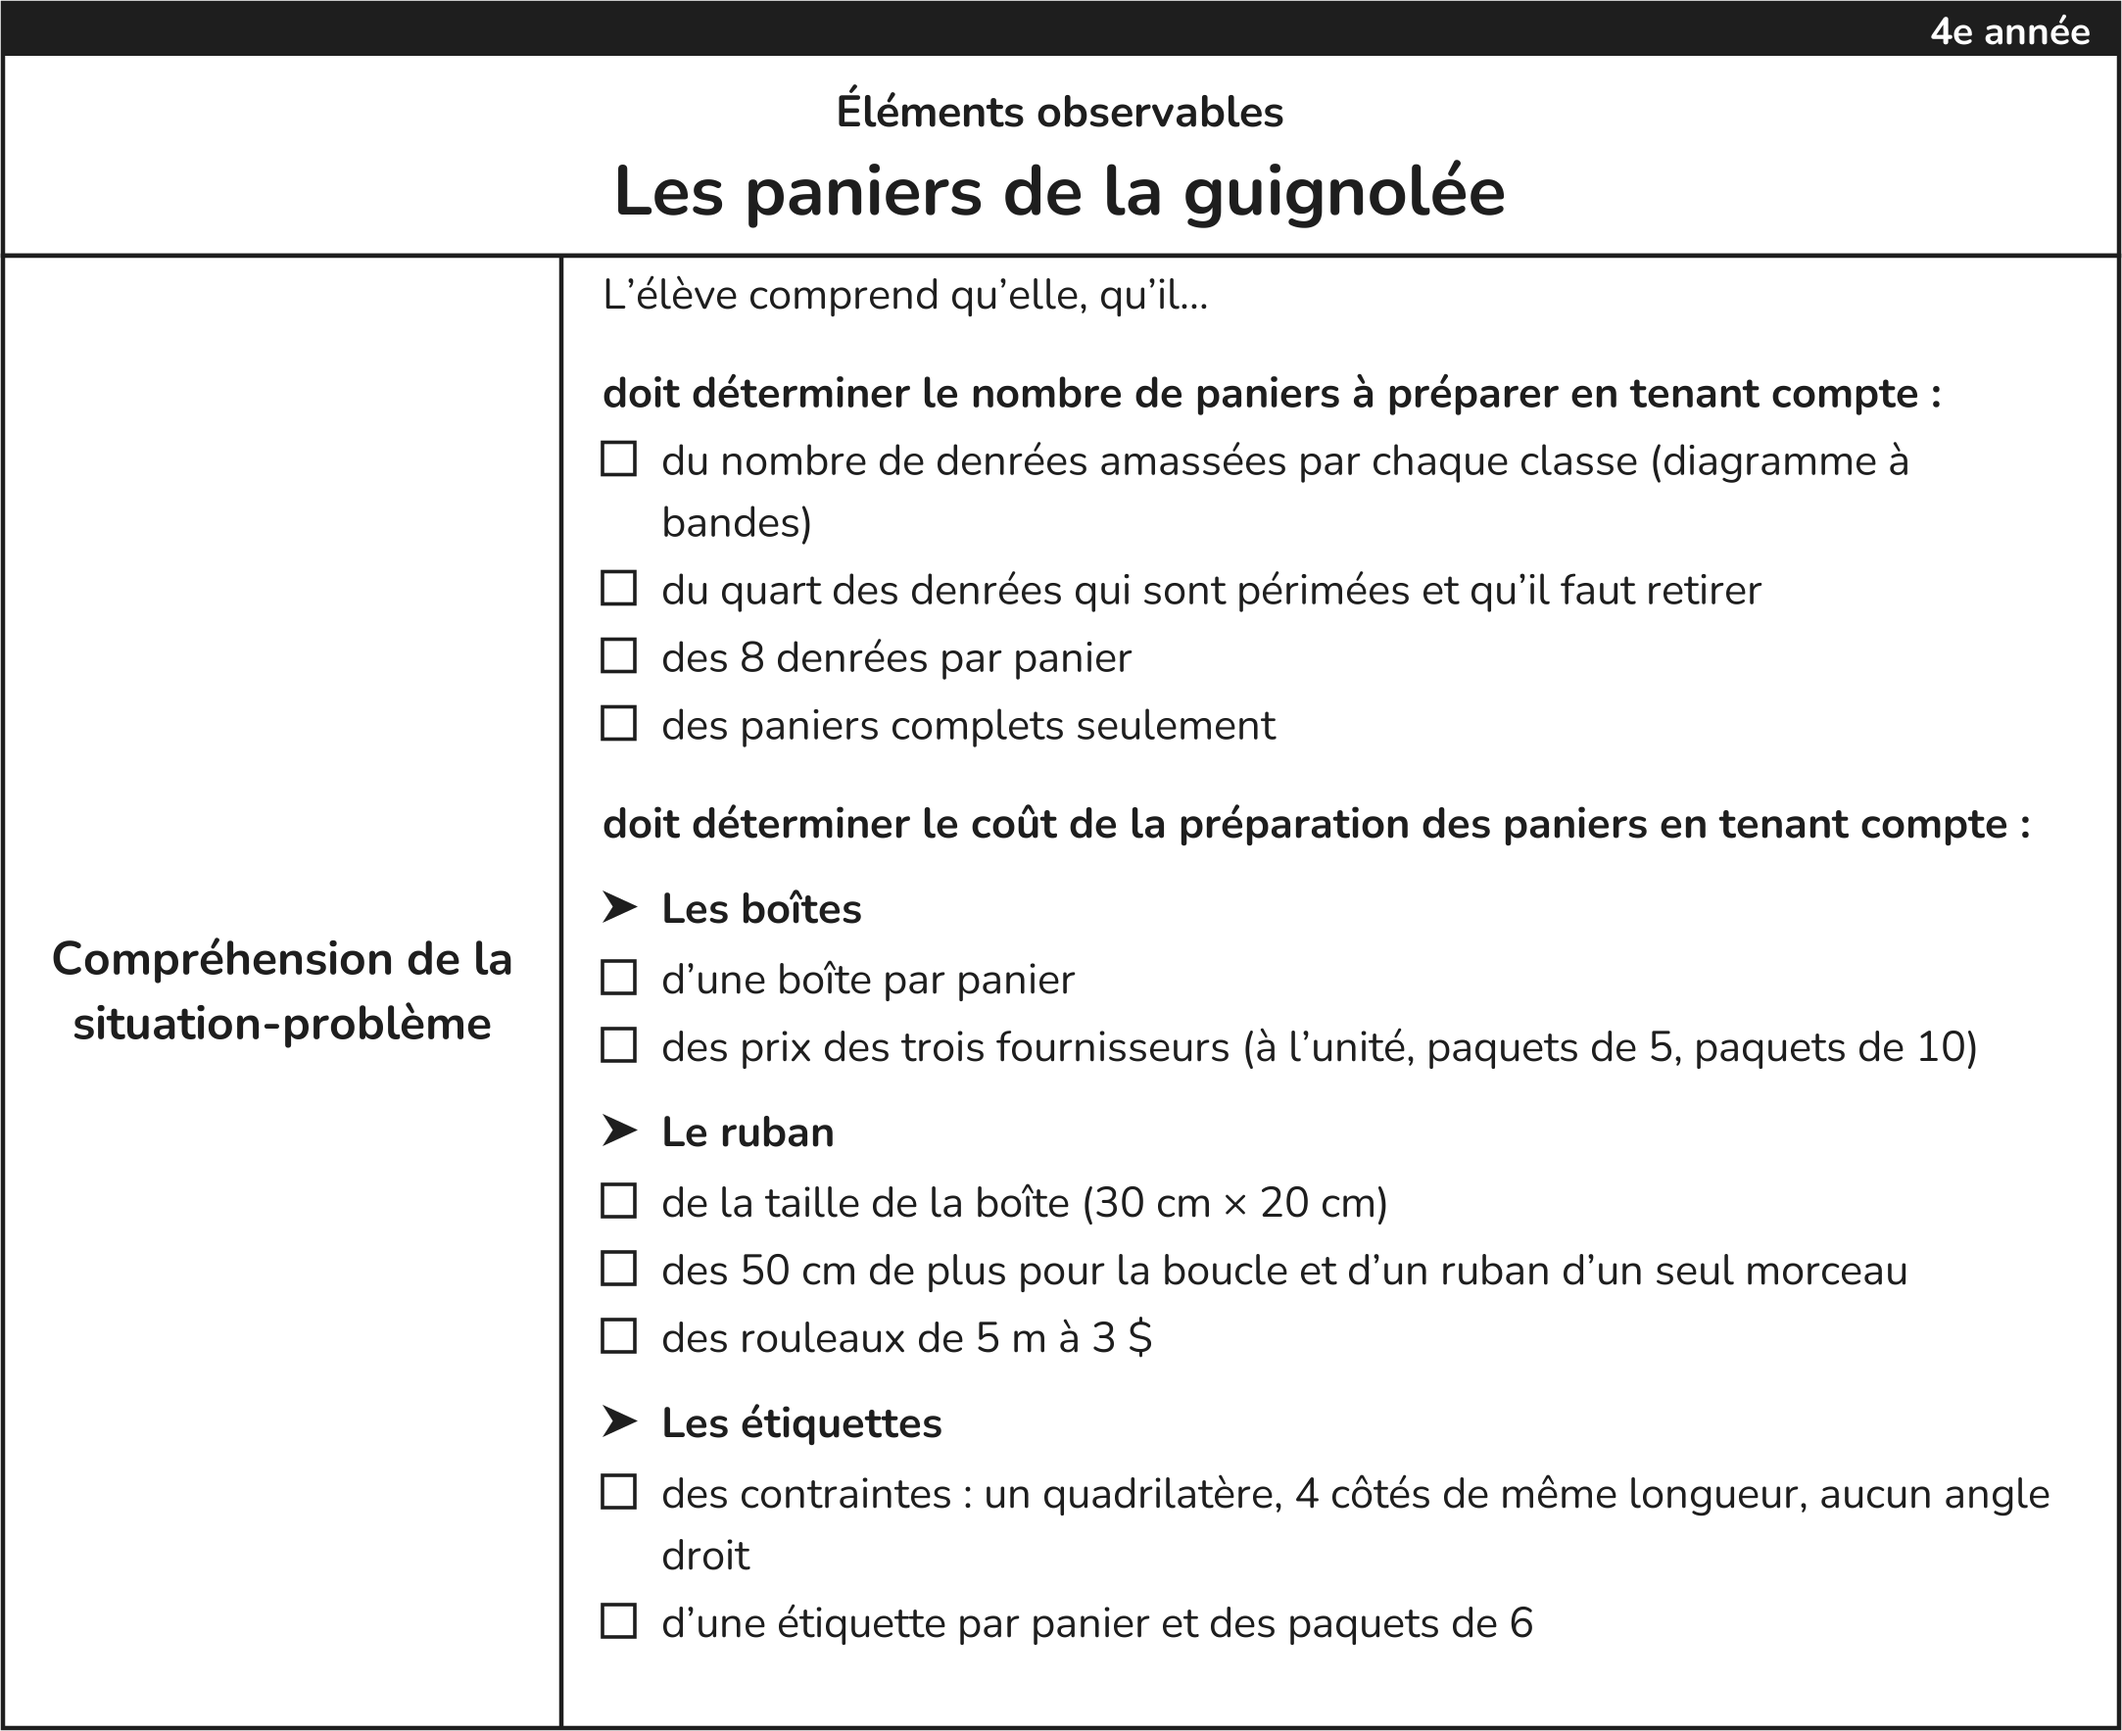
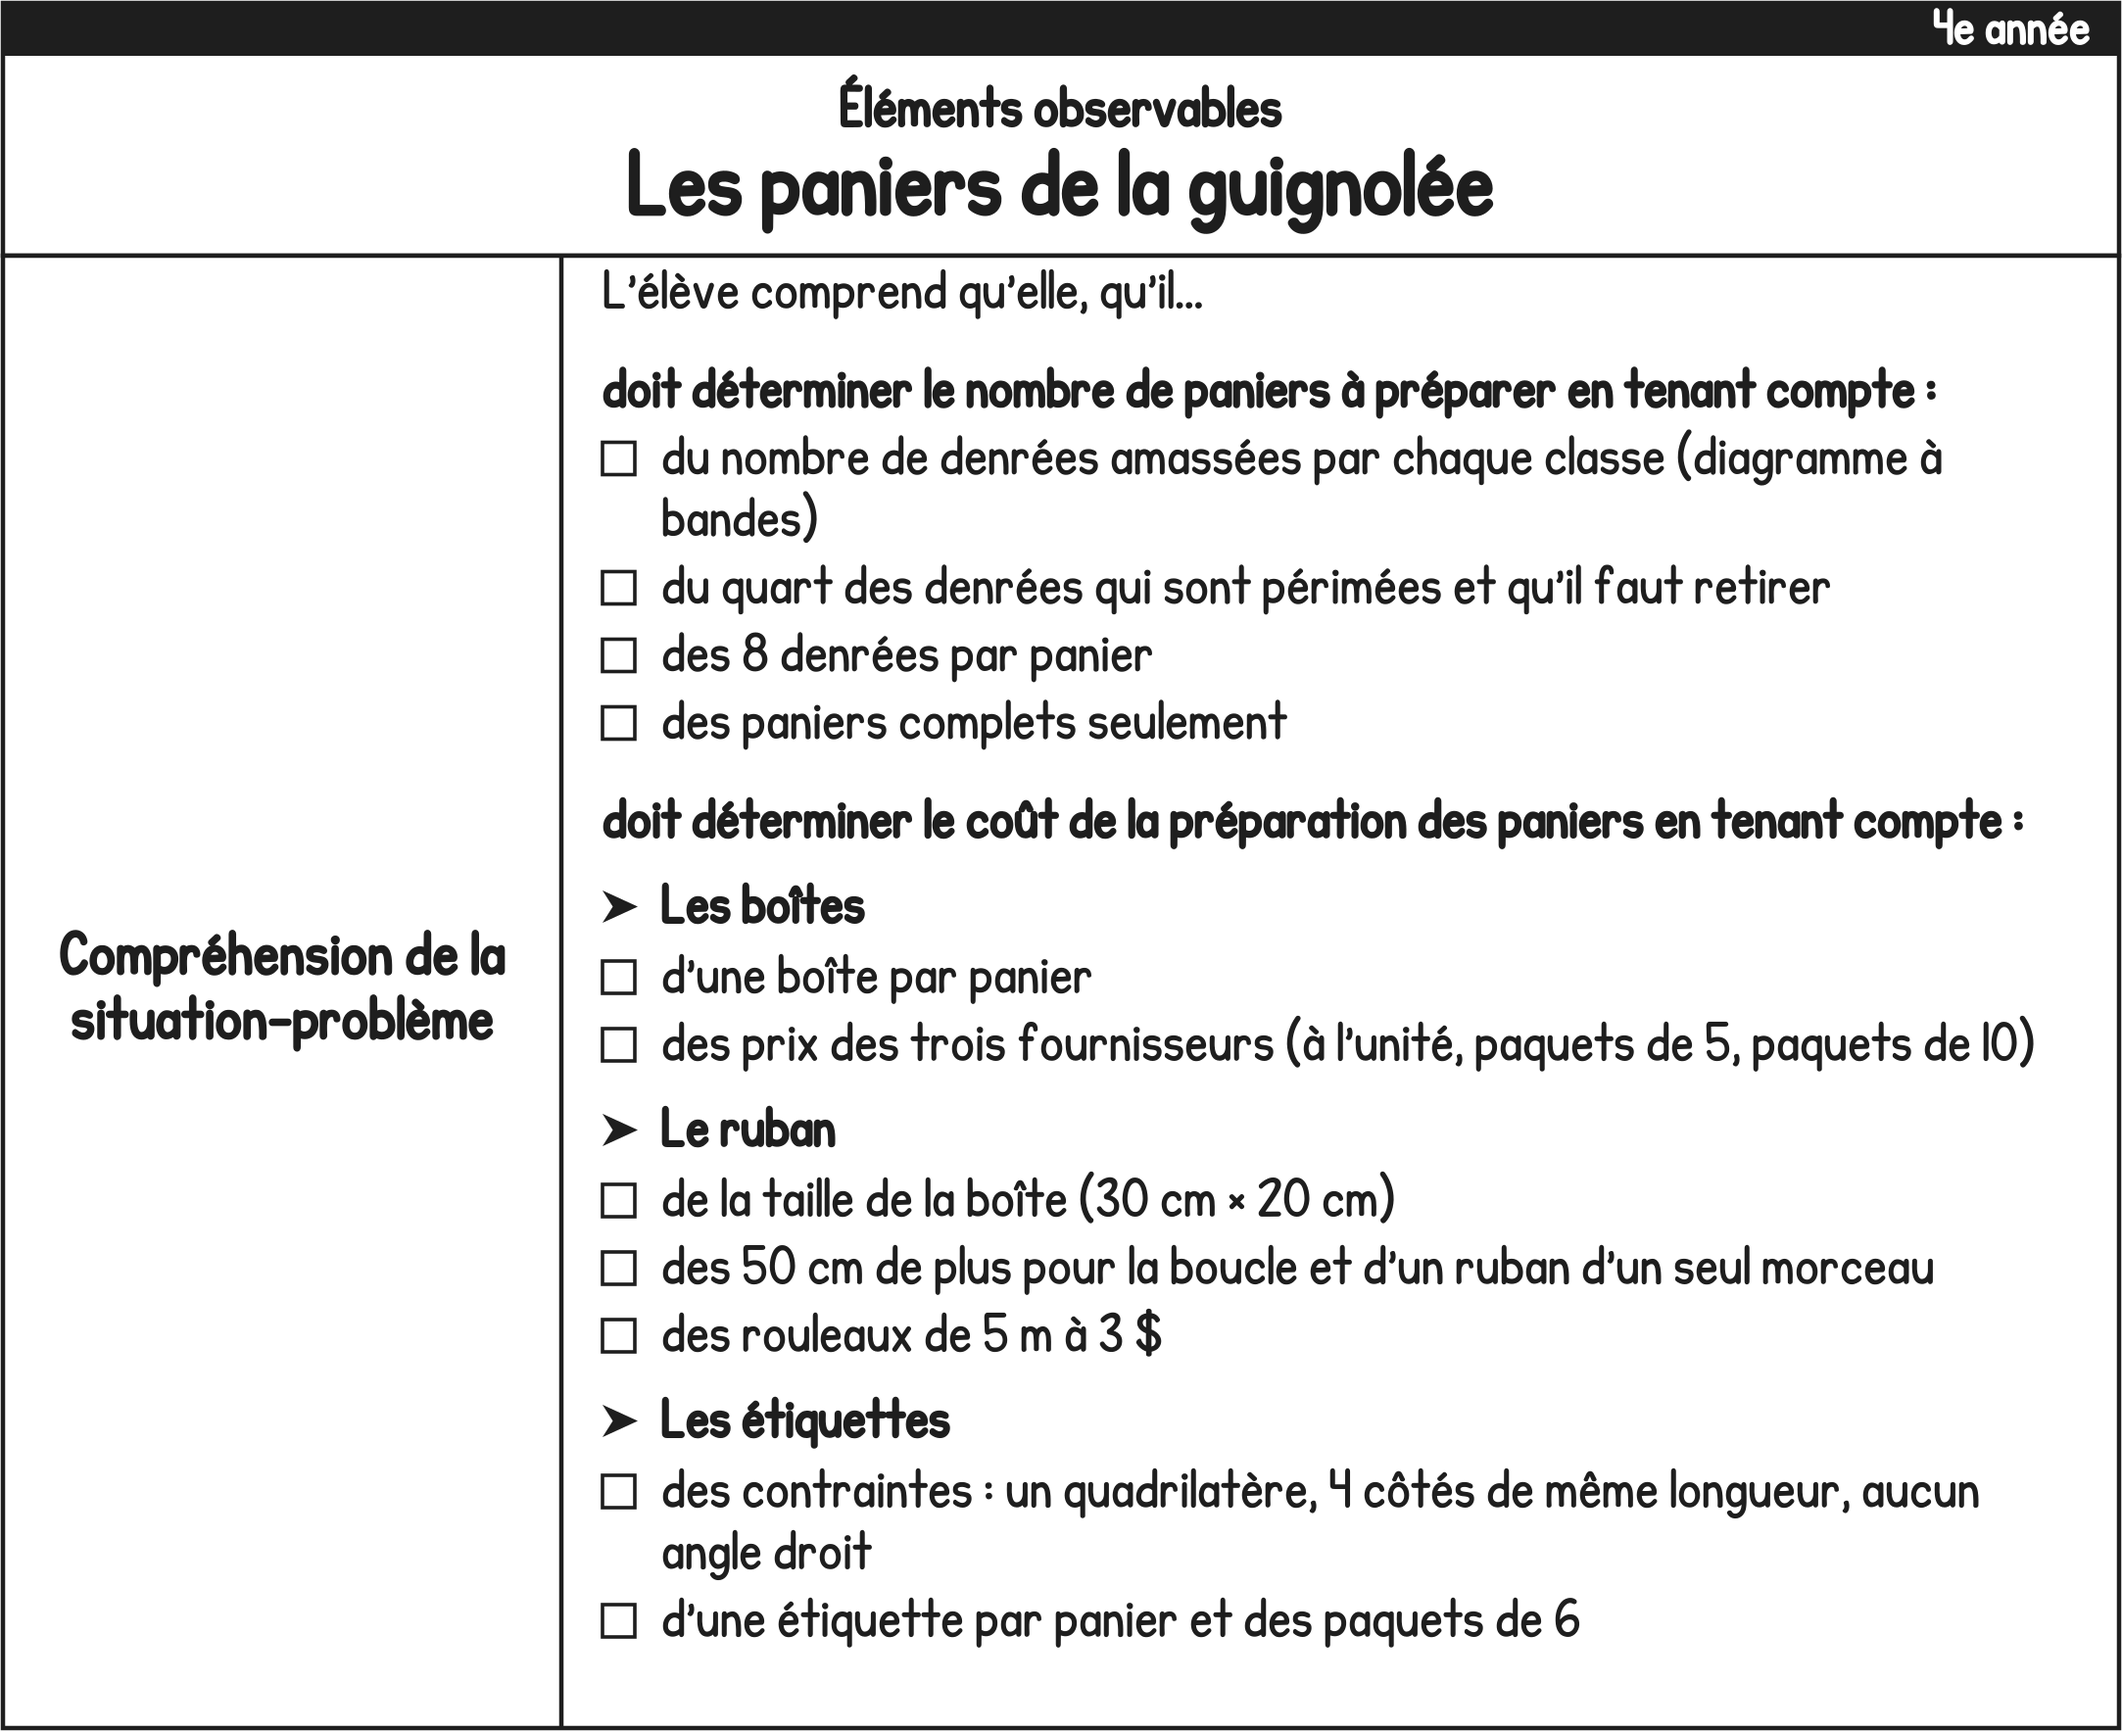
Grille « Éléments observables » en KG Perfect Penmanship
Claude-Session: https://claude.ai/code/session_01NiTaWGpjQjB6yeVp3yNw7H

diff --git a/ressources/resoudre-paniers-guignolee-4e-annee/dessins/observables.py b/ressources/resoudre-paniers-guignolee-4e-annee/dessins/observables.py
@@ -5,8 +5,8 @@ from PIL import ImageFont
 import cairosvg
 
 INK = '#1E1E1E'
-FR = '/root/.fonts/Nunito-Regular.ttf'
-FB = '/root/.fonts/Nunito-Bold.ttf'
+FR = '/root/.fonts/KGPerfectPenmanship.ttf'  # police de la créatrice (non versionnée, licence)
+FB = FR
 W = 720                 # largeur du tableau (px Canva)
 C0 = 190                # colonne des critères
 PAD = 14
@@ -102,26 +102,26 @@ def bloc(crit, lignes, y):
             parts = couper(t, maxw - 22)
             s += f"<rect x='{x1}' y='{yy-11}' width='11' height='11' fill='#fff' stroke='{INK}' stroke-width='1.2'/>"
             for k, p in enumerate(parts):
-                s += f"<text x='{x1+20}' y='{yy+k*LH}' font-family='Nunito' font-size='{FS}' fill='{INK}'>{esc(p)}</text>"
+                s += f"<text x='{x1+20}' y='{yy+k*LH}' font-family='KG Perfect Penmanship' font-size='{FS}' fill='{INK}'>{esc(p)}</text>"
             yy += LH * len(parts) + 2
         elif typ == 'sec':
             yy += 6
             s += (f"<path d='M{x1} {yy-11} L{x1+12} {yy-5.5} L{x1} {yy} L{x1+3.5} {yy-5.5} Z' fill='{INK}'/>"
-                  f"<text x='{x1+20}' y='{yy}' font-family='Nunito' font-weight='700' font-size='{FS}' fill='{INK}'>{esc(t)}</text>")
+                  f"<text x='{x1+20}' y='{yy}' font-family='KG Perfect Penmanship' stroke='#1E1E1E' stroke-width='0.7' font-size='{FS}' fill='{INK}'>{esc(t)}</text>")
             yy += LH + 3
         else:
             bold = typ == 'b'
             parts = couper(t, maxw, bold)
             for k, p in enumerate(parts):
-                s += (f"<text x='{x1}' y='{yy+k*LH}' font-family='Nunito' font-size='{FS}' fill='{INK}' "
-                      f"{'font-weight=\"700\"' if bold else ''} {'font-style=\"italic\"' if typ == 'it' else ''}>{esc(p)}</text>")
+                s += (f"<text x='{x1}' y='{yy+k*LH}' font-family='KG Perfect Penmanship' font-size='{FS}' fill='{INK}' "
+                      f"{'stroke=\"#1E1E1E\" stroke-width=\"0.7\"' if bold else ''} {'font-style=\"italic\"' if typ == 'it' else ''}>{esc(p)}</text>")
             yy += LH * len(parts) + 2
     h = yy - y + PAD - 6
     # critère centré verticalement
     cl = couper(crit, C0 - 2 * PAD, True)
     cy = y + h / 2 - (len(cl) - 1) * 11 + 5
     for k, p in enumerate(cl):
-        s += f"<text x='{C0/2}' y='{cy+k*22}' font-family='Nunito' font-weight='700' font-size='16' text-anchor='middle' fill='{INK}'>{esc(p)}</text>"
+        s += f"<text x='{C0/2}' y='{cy+k*22}' font-family='KG Perfect Penmanship' stroke='#1E1E1E' stroke-width='0.7' font-size='16' text-anchor='middle' fill='{INK}'>{esc(p)}</text>"
     s = (f"<rect x='0' y='{y}' width='{W}' height='{h}' fill='#fff' stroke='{INK}' stroke-width='1.5'/>"
          f"<line x1='{C0}' y1='{y}' x2='{C0}' y2='{y+h}' stroke='{INK}' stroke-width='1.5'/>") + s
     return s, h
@@ -130,9 +130,9 @@ def bloc(crit, lignes, y):
 def entete():
     s = (f"<rect x='0' y='0' width='{W}' height='86' fill='#fff' stroke='{INK}' stroke-width='1.5'/>"
          f"<rect x='0' y='0' width='{W}' height='18' fill='{INK}'/>"
-         f"<text x='{W-10}' y='14' font-family='Nunito' font-weight='800' font-size='13' text-anchor='end' fill='#fff'>4e année</text>"
-         f"<text x='{W/2}' y='42' font-family='Nunito' font-weight='700' font-size='15' text-anchor='middle' fill='{INK}'>Éléments observables</text>"
-         f"<text x='{W/2}' y='72' font-family='Nunito' font-weight='800' font-size='24' text-anchor='middle' fill='{INK}'>Les paniers de la guignolée</text>")
+         f"<text x='{W-10}' y='14' font-family='KG Perfect Penmanship' font-size='13' text-anchor='end' fill='#fff' stroke='#fff' stroke-width='0.5'>4e année</text>"
+         f"<text x='{W/2}' y='42' font-family='KG Perfect Penmanship' stroke='#1E1E1E' stroke-width='0.7' font-size='15' text-anchor='middle' fill='{INK}'>Éléments observables</text>"
+         f"<text x='{W/2}' y='72' font-family='KG Perfect Penmanship' stroke='#1E1E1E' stroke-width='1' font-size='24' text-anchor='middle' fill='{INK}'>Les paniers de la guignolée</text>")
     return s, 86
 
 
